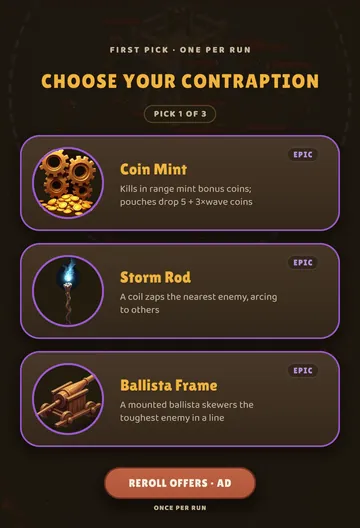
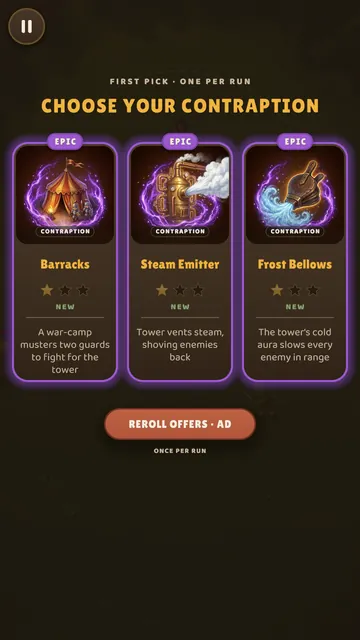
Screenshot rail: four current screens in place of the v25 store crops
Boss ogre's slam windup (real health), the Storm Rod chaining through the
dead in the Necropolis, the redesigned contraption pick, and the gear screen
in the full Emberwood Warden set with two uniques. Whole 9:16 screens now
(the old crop cut off the wave bar and the boss bar). Sources are in the
game repo, docs/release/store-assets/site; the battle frames come from the
new still_boss and still_storm takes.

diff --git a/index.html b/index.html
@@ -26,7 +26,7 @@
 
   <link rel="preload" href="assets/fonts/lilita-one.woff2" as="font" type="font/woff2" crossorigin>
   <link rel="preload" href="assets/fonts/baloo2-latin.woff2" as="font" type="font/woff2" crossorigin>
-  <link rel="stylesheet" href="assets/css/site.css?v=7837e21f9d">
+  <link rel="stylesheet" href="assets/css/site.css?v=e945a1142b">
   <script src="assets/js/site.js?v=35ec66bd99" defer></script>
 
   <script type="application/ld+json">
@@ -164,19 +164,19 @@
         <p class="lead">A skull on the wave bar warns you two waves out. Bosses wind up before the big hit, and a shove or a bolt at the right moment breaks it.</p>
         <div class="shots" role="region" aria-label="Screenshots" tabindex="0">
           <figure class="shot">
-            <img src="assets/img/shot-lightning-360.webp" srcset="assets/img/shot-lightning-360.webp 360w, assets/img/shot-lightning-720.webp 720w" sizes="(min-width: 1024px) 255px, (min-width: 720px) 45vw, 70vw" width="720" height="1056" alt="Lightning arcs between desert raiders around the tower" loading="lazy">
-            <figcaption><b>Lightning</b><span>Desert Necropolis. It jumps from one raider to the next.</span></figcaption>
-          </figure>
-          <figure class="shot">
-            <img src="assets/img/shot-boss-360.webp" srcset="assets/img/shot-boss-360.webp 360w, assets/img/shot-boss-720.webp 720w" sizes="(min-width: 1024px) 255px, (min-width: 720px) 45vw, 70vw" width="720" height="1056" alt="A boss ogre swings its axe at the tower" loading="lazy">
+            <img src="assets/img/shot-boss-360.webp" srcset="assets/img/shot-boss-360.webp 360w, assets/img/shot-boss-720.webp 720w" sizes="(min-width: 1024px) 255px, (min-width: 720px) 45vw, 70vw" width="720" height="1280" alt="A boss ogre raises its axe over the tower inside its orange slam warning" loading="lazy">
             <figcaption><b>Boss ogre</b><span>Emberwood. It plants itself and slams, and your bow is stunned for 3 seconds.</span></figcaption>
           </figure>
           <figure class="shot">
-            <img src="assets/img/shot-contraption-360.webp" srcset="assets/img/shot-contraption-360.webp 360w, assets/img/shot-contraption-720.webp 720w" sizes="(min-width: 1024px) 255px, (min-width: 720px) 45vw, 70vw" width="720" height="1056" alt="The contraption pick: Coin Mint, Storm Rod or Ballista Frame" loading="lazy">
-            <figcaption><b>Contraption pick</b><span>The first pick of a run: Coin Mint, Storm Rod or Ballista Frame.</span></figcaption>
+            <img src="assets/img/shot-storm-360.webp" srcset="assets/img/shot-storm-360.webp 360w, assets/img/shot-storm-720.webp 720w" sizes="(min-width: 1024px) 255px, (min-width: 720px) 45vw, 70vw" width="720" height="1280" alt="Storm Rod lightning arcs from the tower into a pack of the dead in the desert" loading="lazy">
+            <figcaption><b>Storm Rod</b><span>Desert Necropolis. The coil zaps the nearest enemy and arcs to the next ones.</span></figcaption>
           </figure>
           <figure class="shot">
-            <img src="assets/img/shot-gear-360.webp" srcset="assets/img/shot-gear-360.webp 360w, assets/img/shot-gear-720.webp 720w" sizes="(min-width: 1024px) 255px, (min-width: 720px) 45vw, 70vw" width="720" height="1056" alt="The gear screen, with the archer in a great helm" loading="lazy">
+            <img src="assets/img/shot-contraption-360.webp" srcset="assets/img/shot-contraption-360.webp 360w, assets/img/shot-contraption-720.webp 720w" sizes="(min-width: 1024px) 255px, (min-width: 720px) 45vw, 70vw" width="720" height="1280" alt="The contraption pick: Barracks, Steam Emitter or Frost Bellows" loading="lazy">
+            <figcaption><b>Contraption pick</b><span>The first pick of a run: Barracks, Steam Emitter or Frost Bellows. You keep it all run.</span></figcaption>
+          </figure>
+          <figure class="shot">
+            <img src="assets/img/shot-gear-360.webp" srcset="assets/img/shot-gear-360.webp 360w, assets/img/shot-gear-720.webp 720w" sizes="(min-width: 1024px) 255px, (min-width: 720px) 45vw, 70vw" width="720" height="1280" alt="The gear screen, with the archer in the full Emberwood Warden set" loading="lazy">
             <figcaption><b>The gear screen</b><span>Magic, set and unique items. Sets drop from each chapter's bosses and elites.</span></figcaption>
           </figure>
         </div>

diff --git a/delete-account/index.html b/delete-account/index.html
@@ -11,7 +11,7 @@
   <link rel="apple-touch-icon" href="../apple-touch-icon.png">
   <link rel="preload" href="../assets/fonts/lilita-one.woff2" as="font" type="font/woff2" crossorigin>
   <link rel="preload" href="../assets/fonts/baloo2-latin.woff2" as="font" type="font/woff2" crossorigin>
-  <link rel="stylesheet" href="../assets/css/site.css?v=7837e21f9d">
+  <link rel="stylesheet" href="../assets/css/site.css?v=e945a1142b">
 </head>
 <body>
   <a class="skip-link" href="#main">Skip to content</a>

diff --git a/privacy/index.html b/privacy/index.html
@@ -11,7 +11,7 @@
   <link rel="apple-touch-icon" href="../apple-touch-icon.png">
   <link rel="preload" href="../assets/fonts/lilita-one.woff2" as="font" type="font/woff2" crossorigin>
   <link rel="preload" href="../assets/fonts/baloo2-latin.woff2" as="font" type="font/woff2" crossorigin>
-  <link rel="stylesheet" href="../assets/css/site.css?v=7837e21f9d">
+  <link rel="stylesheet" href="../assets/css/site.css?v=e945a1142b">
 </head>
 <body>
   <a class="skip-link" href="#main">Skip to content</a>

diff --git a/404.html b/404.html
@@ -7,7 +7,7 @@
   <meta name="robots" content="noindex">
   <meta name="theme-color" content="#1d150e">
   <link rel="icon" href="/favicon.ico" sizes="48x48">
-  <link rel="stylesheet" href="/assets/css/site.css?v=7837e21f9d">
+  <link rel="stylesheet" href="/assets/css/site.css?v=e945a1142b">
 </head>
 <body>
   <header class="wrap top">

diff --git a/assets/css/site.css b/assets/css/site.css
@@ -566,9 +566,10 @@ video:fullscreen { object-fit: contain; }
   background: var(--panel);
   scroll-snap-align: start;
 }
+/* whole phone screens, 9:16 */
 .shot img {
   width: 100%;
-  aspect-ratio: 720 / 1056;
+  aspect-ratio: 9 / 16;
   object-fit: cover;
   border-radius: 11px;
 }

diff --git a/trailer/unity/takes.py b/trailer/unity/takes.py
@@ -22,6 +22,9 @@ for (int si = 0; si < vd.seenEnemies.Length; si++) vd.seenEnemies[si] = true;
 for (int si = 0; si < vd.seenElites.Length; si++) vd.seenElites[si] = true;
 for (int si = 0; si < vd.seenPerks.Length; si++) vd.seenPerks[si] = true;
 Unlocks.DevAll = true;
+// a tutorial that began before this ran (a fresh play session boots without a save) is closed
+foreach (var tut in UnityEngine.Object.FindObjectsByType<TutorialV2>(FindObjectsInactive.Include, FindObjectsSortMode.None))
+    typeof(TutorialV2).GetMethod("FinishTutorial", System.Reflection.BindingFlags.Instance | System.Reflection.BindingFlags.NonPublic).Invoke(tut, new object[] { true });
 // GameManager.Awake reloads the save from disk on every scene load, so the veteran
 // has to be ON disk: one deliberate write (the session's only one; the save family
 // is deleted afterwards - there was none before)
@@ -307,5 +310,31 @@ foreach (var e in Enemy.Active) if (e != null && e.Rising && st[0] == 0) { st[0]
             spawn("Runner", 1, 2.6, 175, 1.9, every=3.7),
         ]),
         ready=ready_for(0, 8), settle=60, length=330, keep=ENERGY, cues=coins_at_start(214),
+    ),
+
+    # ---- stills for the website's screenshot rail (pick the frame afterwards) ----
+    "still_storm": dict(   # the Storm Rod chaining through the dead, a full field
+        pre=TO_MENU,
+        setup=battle(2, 12, natural=True, dmg=10, rate=10, perks=["Storm", "Storm", "Storm"], spawns=[
+            spawn("Grunt", 4, 0.1, 225, 1.25), spawn("Grunt", 4, 0.2, 315, 1.3), spawn("Grunt", 3, 0.3, 135, 1.35),
+            spawn("Grunt", 3, 0.4, 40, 1.4), spawn("Runner", 2, 0.6, 270, 1.3),
+            spawn("Grunt", 3, 3.0, 250, 1.4, every=3.0), spawn("Grunt", 3, 4.0, 15, 1.4, every=3.5),
+        ]),
+        ready=ready_for(2, 12), settle=60, length=480, keep=ENERGY + r"""
+if (gm != null && gm.Playing) { gm.zapInterval.level = 5; gm.chainCount.level = 3; }""",
+        cues=coins_at_start(640),
+    ),
+    "still_boss": dict(    # the Boss Ogre's SLAM windup, at its real health
+        pre=TO_MENU,
+        setup=battle(0, 10, natural=False, dmg=12, rate=10, spawns=[
+            spawn("Boss", 1, 0.2, 300, 0.7), spawn("Grunt", 4, 0.4, 205, 1.3), spawn("Grunt", 3, 0.8, 60, 1.4),
+            spawn("Grunt", 2, 2.5, 140, 1.5),
+        ]),
+        ready=ready_for(0, 10), settle=50, length=900, keep=ENERGY,
+        cues=coins_at_start(355) + r"""
+Enemy boss = null;
+foreach (var e in Enemy.Active) if (e != null && e.isBoss && e.Alive && e.gameObject.activeInHierarchy) boss = e;
+if (st[1] == 0 && boss != null && boss.WindingUp) { st[1] = frame; notes.AppendLine("windup at " + frame + " hp " + boss.CurrentHp.ToString("F0") + "/" + boss.MaxHp.ToString("F0")); lengthFrames = frame + 70; }
+""",
     ),
 }

diff --git a/tools/build_assets.py b/tools/build_assets.py
@@ -79,12 +79,14 @@ for src, name in [
     webp(im, name + "-768", 768, quality=78)
     webp(im, name + "-400", 400, quality=78)
 
-# Store screenshots (docs/release/store-assets/v25) minus their caption band.
-for src, name in [("02_lightning", "shot-lightning"), ("04_boss", "shot-boss"),
-                  ("05_perks", "shot-contraption"), ("06_gear", "shot-gear")]:
-    im = Image.open(game("docs", "release", "store-assets", "v25", src + ".png")).convert("RGB")
-    im = im.crop((0, 336, 1080, 1920))
-    webp(im, name + "-720", 720, quality=80)
+# The screenshot rail: whole 1080x1920 screens from the current build
+# (docs/release/store-assets/site, captured 2026-11-19 with trailer/unity: the
+# boss and Storm Rod frames come from the still_boss and still_storm takes, the
+# contraption pick and the gear screen are single captures).
+for src, name in [("shot_boss", "shot-boss"), ("shot_storm", "shot-storm"),
+                  ("shot_pick", "shot-contraption"), ("shot_gear", "shot-gear")]:
+    im = Image.open(game("docs", "release", "store-assets", "site", src + ".png")).convert("RGB")
+    webp(im, name + "-720", 720, quality=82)
     webp(im, name + "-360", 360, quality=80)
 
 
